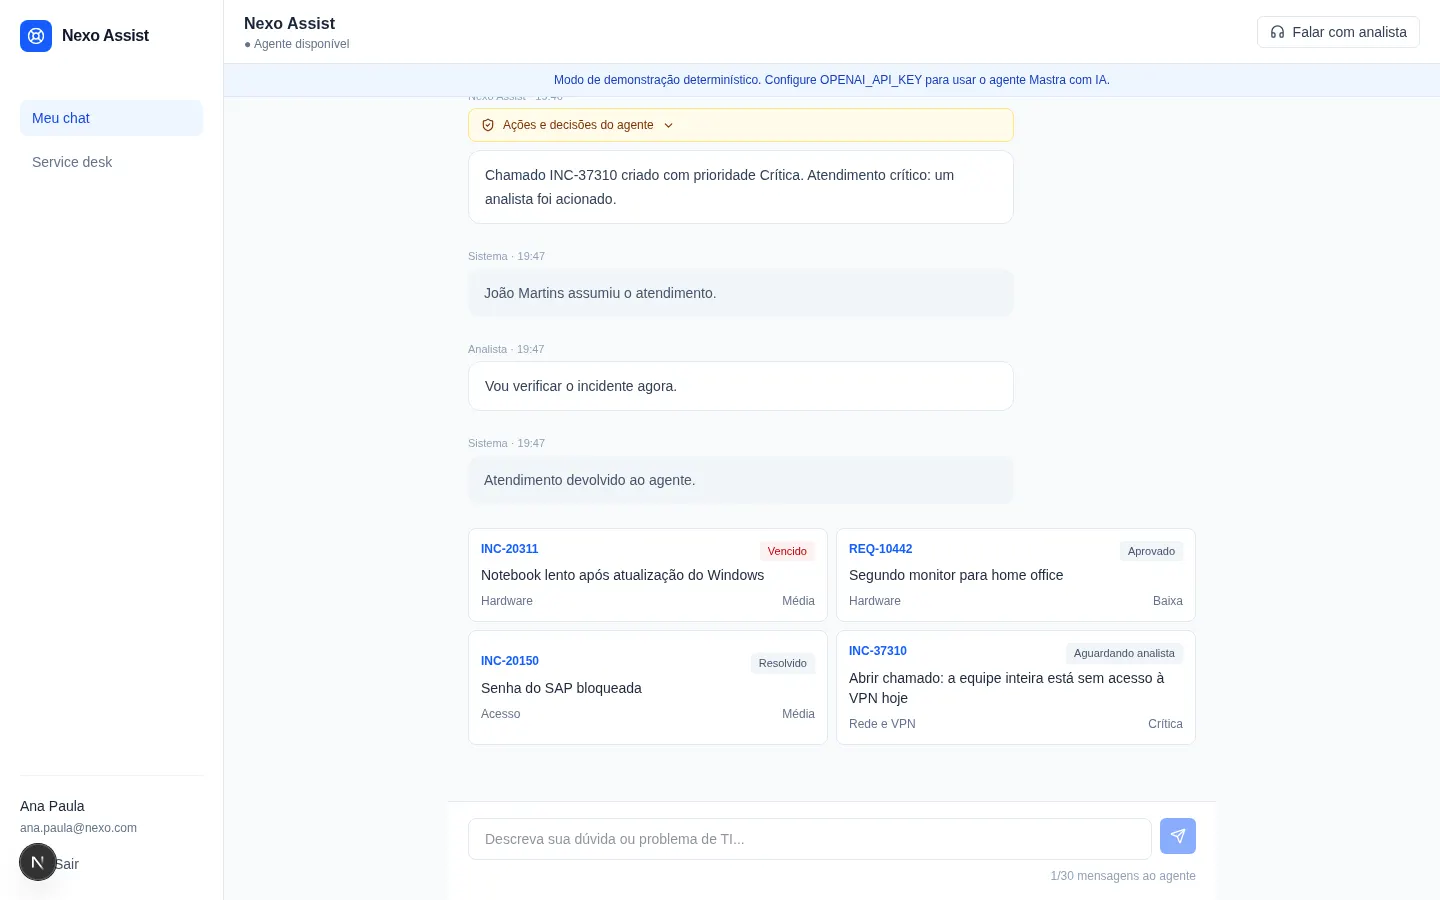
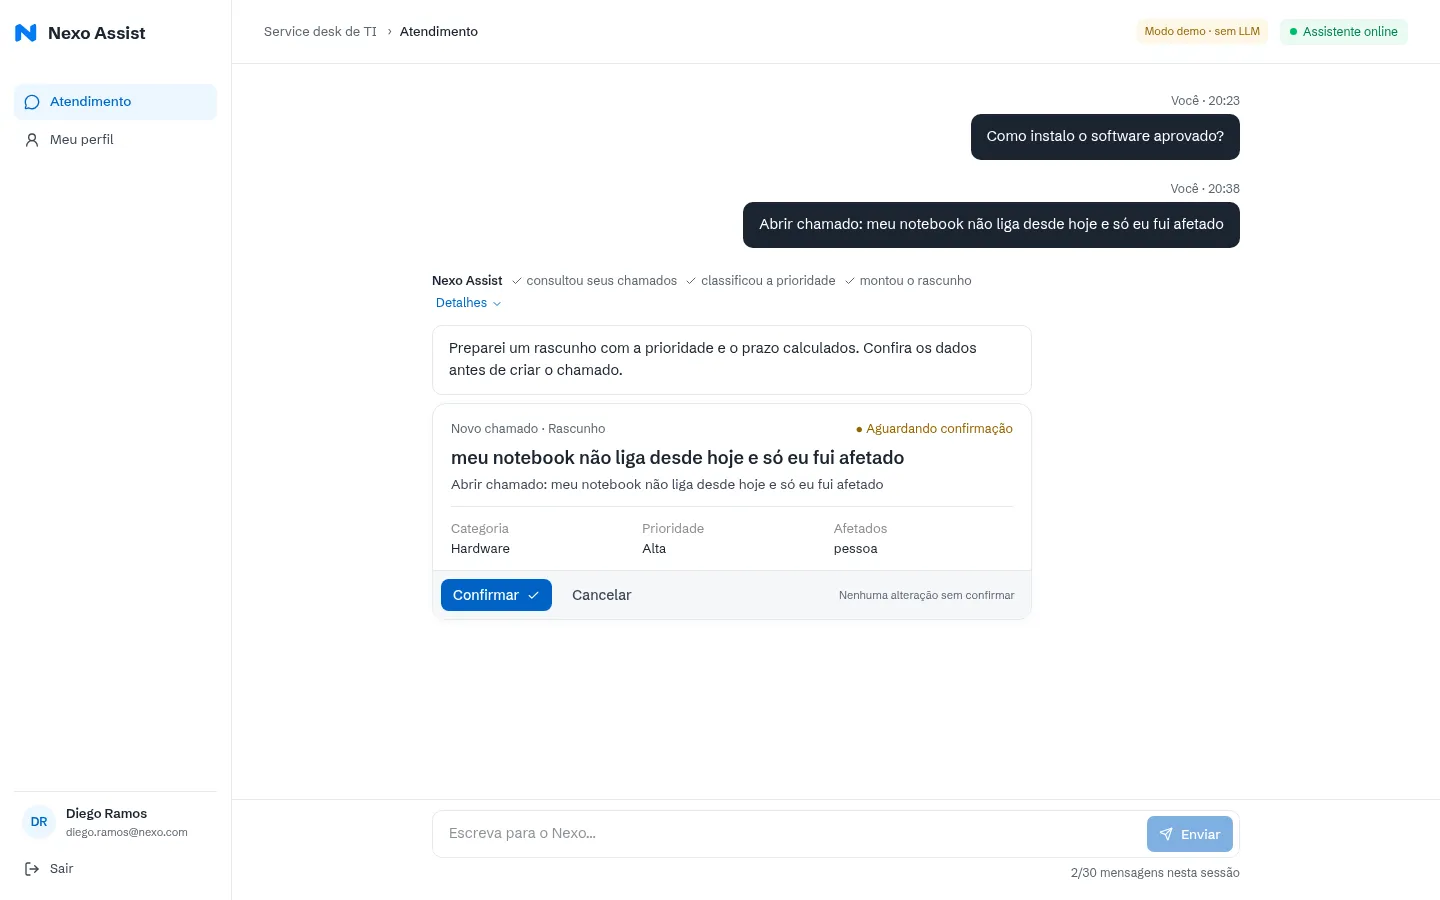
docs: capture five live screens and document Pen alignment

diff --git a/README.md b/README.md
@@ -16,15 +16,25 @@ pnpm dev
 
 Abra <http://localhost:3000>. Para avaliar sem uma chave, defina `DEMO_MODE=true` em `.env.local`. A interface indica claramente esse modo. Ele usa classificação determinística limitada e serve apenas para percorrer os fluxos; com uma chave, a classificação e a seleção de ferramentas são feitas pelo agente Mastra.
 
-Capturas do modo de desenvolvimento: [login](docs/screenshots/login.webp), [chat do funcionário](docs/screenshots/chat-funcionario.webp) e [console do analista](docs/screenshots/console-analista.webp). Elas mostram dados de demonstração e o aviso do modo sem LLM.
+Capturas reais do servidor em desenvolvimento, correspondentes aos cinco estados principais do Pen:
 
-| Papel | E-mail | Senha |
-| --- | --- | --- |
-| Funcionária | `ana.paula@nexo.com` | Qualquer texto não vazio |
-| Funcionário | `bruno.lima@nexo.com` | Qualquer texto não vazio |
-| Analista | `joao.martins@nexo.com` | Qualquer texto não vazio |
+| Tela                             | Captura                                                          |
+| -------------------------------- | ---------------------------------------------------------------- |
+| Identificação                    | [login](docs/screenshots/login.webp)                             |
+| Chat · novo chamado              | [rascunho e confirmação](docs/screenshots/chat-funcionario.webp) |
+| Chat · consulta e transferência  | [seleção de chamados](docs/screenshots/chat-consulta.webp)       |
+| Atendente · conversas            | [fila e chamados](docs/screenshots/console-analista.webp)        |
+| Atendente · atendimento assumido | [resposta humana](docs/screenshots/atendimento-assumido.webp)    |
 
-O seed é idempotente. O banco fica em `data/nexo.sqlite`, ignorado pelo Git. Para reiniciar os dados de demonstração, pare a aplicação, remova o arquivo SQLite e execute `pnpm setup`.
+A interface segue as dimensões, paleta, fontes, marca, composição e componentes inspecionados no arquivo Pen. O texto e os dados exibidos vêm do seed e dos fluxos reais, por isso podem diferir dos exemplos estáticos do protótipo. O painel de decisões e o aviso de modo demo acrescentam informações exigidas pelo desafio.
+
+| Papel       | E-mail                  | Senha                    |
+| ----------- | ----------------------- | ------------------------ |
+| Funcionária | `ana.paula@nexo.com`    | Qualquer texto não vazio |
+| Funcionário | `bruno.lima@nexo.com`   | Qualquer texto não vazio |
+| Analista    | `joao.martins@nexo.com` | Qualquer texto não vazio |
+
+O seed é idempotente. O banco fica em `data/nexo.sqlite`, ignorado pelo Git. Para reiniciar os dados de demonstração, pare a aplicação, remova o arquivo SQLite e execute `pnpm setup`. O SQLite usa journal de rollback para manter as gravações estáveis durante reinícios do servidor de desenvolvimento.
 
 ## Arquitetura
 
